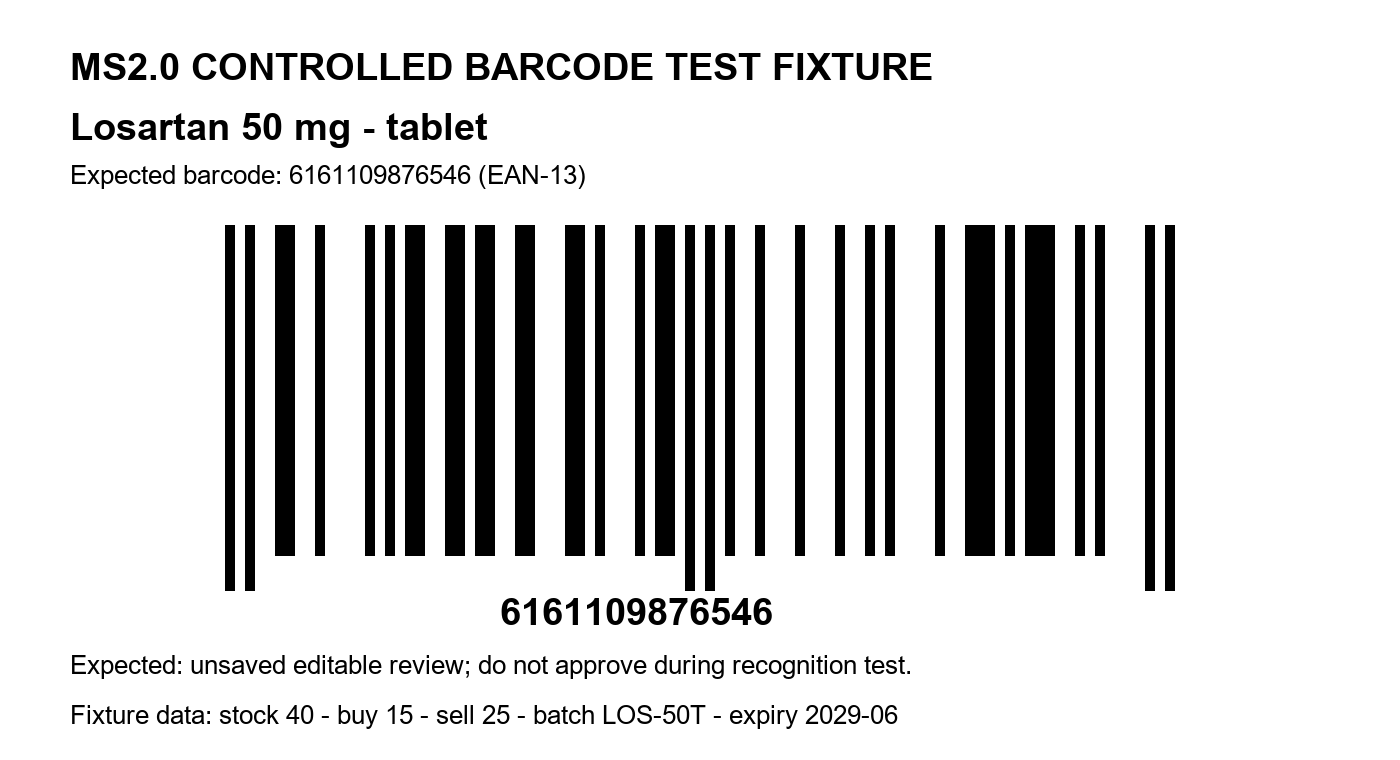
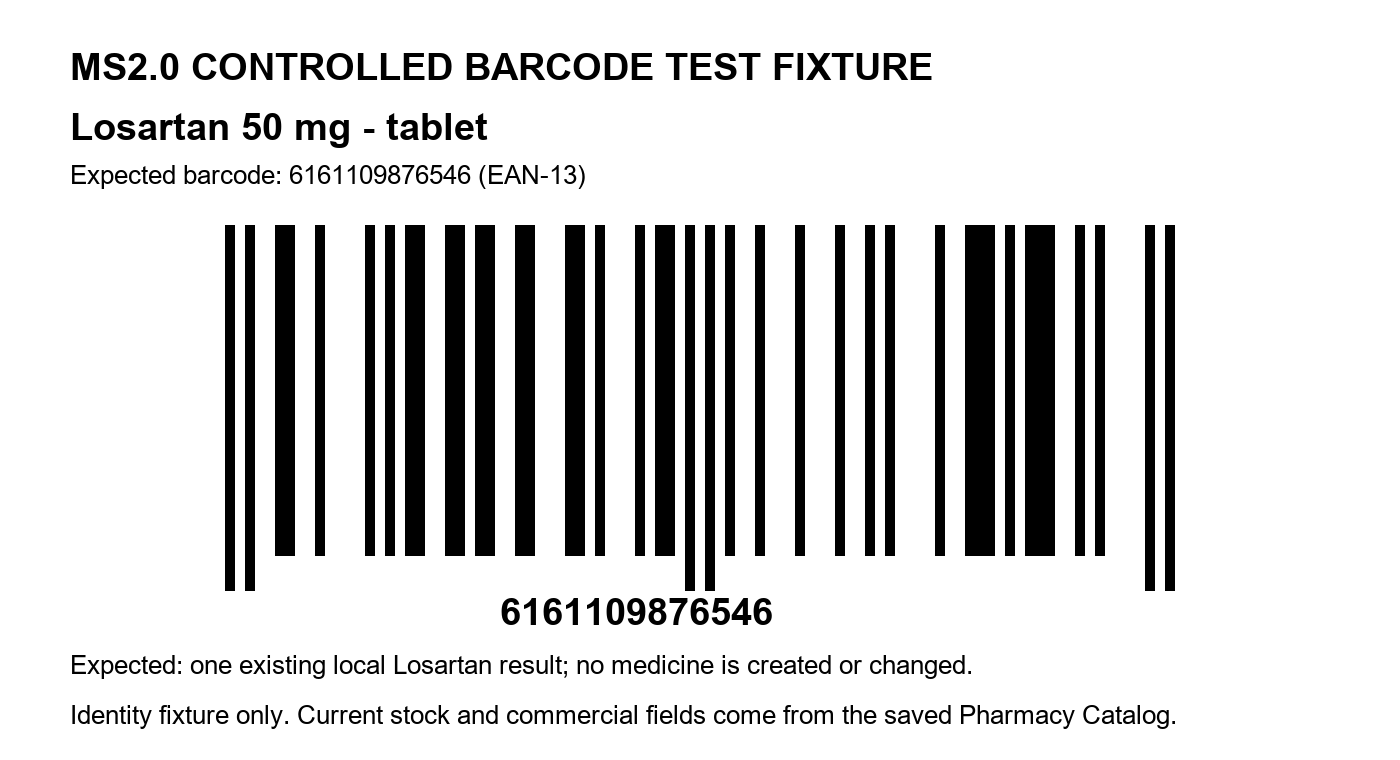
Fix same-context Print Finder capture

Changed region(s): [[0.0614, 0.8474, 0.8293, 0.9684]]

diff --git a/ms20-main-app/src/app.js b/ms20-main-app/src/app.js
@@ -96,8 +96,6 @@ let speechControl = { cardId: "", paused: false, segments: [], index: 0 };
 let speechRunId = 0;
 let activeReportRequest = null;
 let activeFinderWindow = null;
-const finderChannels = new Map();
-const activeFinderBridgeIds = new Set();
 const CARD_FONT_SCALE_STEP = 0.1;
 let activeStockFixScan = null;
 let pendingStockFixEvidenceSource = "photo";
@@ -169,12 +167,14 @@ const FIELD_LABELS = {
   items_text: "Medicine list"
 };
 let activeRecognition = null;
+let voiceCaptureAttempt = 0;
 let stockFixReading = null;
 let stockFixReadingSequence = 0;
 
 state.ui = { screen: "home", workspace: "operations" };
 state.voice = { starting: false, listening: false, status: "" };
 state.camera = { open: false, scanType: "medicine_photo", stream: null, status: "", lightAvailable: false, lightOn: false, capturedFile: null, capturedUrl: "", retryRequired: false };
+state.printPreview = null;
 state.shelfAcquisitionOpen = false;
 state.pendingScanType = "medicine_photo";
 state.stockFixPhotoCardId = "";
@@ -200,9 +200,16 @@ function render() {
     <main class="chat-app" style="--card-font-scale: ${state.cardFontScale};">
       ${state.ui.screen === "chat" ? chatScreenTemplate() : state.ui.screen === "payments" ? paymentQueueScreenTemplate() : chatHomeTemplate()}
       ${shelfAcquisitionTemplate()}
+      ${state.printPreview ? `<section class="print-preview-overlay" aria-label="Print preview"><iframe id="ms20PrintPreview" title="MS2.0 Pharmacy Inventory print preview"></iframe></section>` : ""}
       ${cameraOverlayTemplate()}
     </main>
   `;
+  const printFrame = root.querySelector("#ms20PrintPreview");
+  if (printFrame && state.printPreview) printFrame.srcdoc = buildPrintHtml(state.printPreview.model, {
+    bridgeId: state.printPreview.bridgeId,
+    initialQuery: state.printPreview.query,
+    initialMessage: state.printPreview.message
+  });
   bindEvents();
   hideReplitBadge();
   if (state.ui.screen === "payments") root.querySelector("#paymentQueueBody")?.scrollTo({ top: 0 });
@@ -1388,11 +1395,49 @@ function handleVoiceTranscript(text) {
   addCard(card);
 }
 
-function startVoiceCapture(onTranscript = null, onStatus = null) {
+async function startVoiceCapture(onTranscript = null, onStatus = null) {
   if (state.voice.starting || state.voice.listening) return;
+  const attempt = ++voiceCaptureAttempt;
   if (navigator.onLine === false) {
     state.voice.status = "Voice needs internet on this phone. You can type while offline.";
     onStatus?.("Voice needs internet on this phone. Connect, then tap Speak medicine again.");
+    render();
+    return;
+  }
+  if (!navigator.mediaDevices?.getUserMedia) {
+    state.voice.status = "Microphone capture is unavailable in this browser.";
+    onStatus?.("Microphone capture is unavailable in this browser. Try a current version of Chrome.");
+    render();
+    return;
+  }
+  state.voice.starting = true;
+  state.voice.listening = false;
+  state.voice.status = "Requesting microphone permission…";
+  onStatus?.("Requesting microphone permission…");
+  render();
+  const permissionTimer = window.setTimeout(() => {
+    if (attempt !== voiceCaptureAttempt || !state.voice.starting) return;
+    state.voice.status = "Choose Allow or Block in the browser microphone prompt.";
+    onStatus?.(state.voice.status);
+    render();
+  }, 12000);
+  try {
+    const permissionStream = await navigator.mediaDevices.getUserMedia({ audio: true, video: false });
+    clearTimeout(permissionTimer);
+    if (attempt !== voiceCaptureAttempt) {
+      permissionStream.getTracks().forEach((track) => track.stop());
+      return;
+    }
+    permissionStream.getTracks().forEach((track) => track.stop());
+  } catch (error) {
+    clearTimeout(permissionTimer);
+    if (attempt !== voiceCaptureAttempt) return;
+    state.voice.starting = false;
+    const denied = String(error?.name || "") === "NotAllowedError";
+    state.voice.status = denied
+      ? "Microphone access was denied. Allow it in browser settings, then tap Speak medicine again."
+      : "Microphone could not start. Check this phone's microphone and try again.";
+    onStatus?.(state.voice.status);
     render();
     return;
   }
@@ -1411,6 +1456,7 @@ function startVoiceCapture(onTranscript = null, onStatus = null) {
   let voiceError = false;
   let audioReady = false;
   let captureTimer = null;
+  let startupTimer = null;
   let latestTranscript = "";
   activeRecognition = recognition;
   state.voice.starting = true;
@@ -1420,11 +1466,13 @@ function startVoiceCapture(onTranscript = null, onStatus = null) {
   const markAudioReady = () => {
     if (audioReady) return;
     audioReady = true;
+    if (startupTimer) clearTimeout(startupTimer);
     state.voice.starting = false;
     state.voice.listening = true;
     const stockFixCard = state.cards.find((card) => card.type === "StockCorrectionCard");
     if (stockFixCard) state.voice.status = stockFixVoicePrompt(stockFixCard);
     else state.voice.status = "Speak now.";
+    onStatus?.("Listening… Say one saved medicine name.");
     render();
     captureTimer = setTimeout(() => {
       if (activeRecognition !== recognition) return;
@@ -1455,6 +1503,7 @@ function startVoiceCapture(onTranscript = null, onStatus = null) {
     state.voice.starting = false;
     state.voice.listening = false;
     state.voice.status = `Heard: “${finalTranscript}”.`;
+    onStatus?.("Processing spoken medicine locally…");
     activeRecognition = null;
     if (finalTranscript.trim()) {
       if (onTranscript) {
@@ -1480,6 +1529,7 @@ function startVoiceCapture(onTranscript = null, onStatus = null) {
   };
   recognition.onerror = (event) => {
     if (captureTimer) clearTimeout(captureTimer);
+    if (startupTimer) clearTimeout(startupTimer);
     voiceError = true;
     state.voice.starting = false;
     state.voice.listening = false;
@@ -1497,6 +1547,7 @@ function startVoiceCapture(onTranscript = null, onStatus = null) {
   };
   recognition.onend = () => {
     if (captureTimer) clearTimeout(captureTimer);
+    if (startupTimer) clearTimeout(startupTimer);
     activeRecognition = null;
     state.voice.starting = false;
     state.voice.listening = false;
@@ -1514,6 +1565,12 @@ function startVoiceCapture(onTranscript = null, onStatus = null) {
   };
   try {
     recognition.start();
+    startupTimer = window.setTimeout(() => {
+      if (activeRecognition !== recognition || audioReady) return;
+      state.voice.status = "Microphone did not start. Tap Speak medicine to retry.";
+      onStatus?.(state.voice.status);
+      try { recognition.abort(); } catch { /* already stopped */ }
+    }, 12000);
   } catch {
     activeRecognition = null;
     state.voice.starting = false;
@@ -1522,6 +1579,18 @@ function startVoiceCapture(onTranscript = null, onStatus = null) {
     onStatus?.("Voice could not start. Allow microphone access, check the internet, then try again.");
     render();
   }
+}
+
+function stopActiveVoiceCapture() {
+  voiceCaptureAttempt += 1;
+  const recognition = activeRecognition;
+  activeRecognition = null;
+  if (recognition) {
+    try { recognition.abort(); } catch { /* already stopped */ }
+  }
+  state.voice.starting = false;
+  state.voice.listening = false;
+  state.voice.status = "";
 }
 
 function buildCommandCard(text) {
@@ -1772,6 +1841,7 @@ async function openLightweightCamera(scanType = "medicine_photo") {
 }
 
 function closeLightweightCamera() {
+  const finderWasActive = Boolean(activeFinderWindow);
   closeCameraStream();
   clearCapturedCameraPhoto();
   state.camera.open = false;
@@ -1779,6 +1849,7 @@ function closeLightweightCamera() {
   state.camera.lightAvailable = false;
   state.camera.lightOn = false;
   render();
+  if (finderWasActive) postFinderResult("", "barcode_cancelled", "Scanner cancelled. Tap Scan barcode to retry.");
 }
 
 function clearCapturedCameraPhoto() {
@@ -1907,7 +1978,15 @@ async function readBarcodeCapture(file) {
   const recognized = existing || (sourceCandidate?.status === "matched" ? fixture : null);
   const review = recognized ? normalizeMedicineReviewRow(recognized) : {};
   if (activeFinderWindow) {
-    postFinderResult(review.name || barcode, barcode ? "barcode" : "barcode_not_read");
+    postFinderResult(
+      review.name || barcode,
+      barcode ? "barcode" : "barcode_not_read",
+      recognized
+        ? `Barcode matched ${review.name} in this Pharmacy Catalog.`
+        : barcode
+          ? "Barcode captured, but it has no match in this Pharmacy Catalog."
+          : "No barcode was read. Tap Scan barcode to retry."
+    );
     return;
   }
   addCard(createEditableCard({
@@ -3211,32 +3290,9 @@ function downloadInventoryExport(format, cardId = "") {
   };
   if (format === "print") {
     const bridgeId = globalThis.crypto?.randomUUID?.() || `finder-${Date.now()}-${Math.random().toString(36).slice(2)}`;
-    activeFinderBridgeIds.add(bridgeId);
-    const finderChannel = "BroadcastChannel" in window ? new BroadcastChannel(`ms20-finder-${bridgeId}`) : null;
-    if (finderChannel) {
-      finderChannels.set(bridgeId, finderChannel);
-      finderChannel.addEventListener("message", (event) => {
-        if (event.data?.type !== "ms20:finder-request" || event.data.bridgeId !== bridgeId) return;
-        handleFinderRequest(event.data, (payload) => finderChannel.postMessage({ ...payload, bridgeId }));
-      });
-      window.setTimeout(() => {
-        finderChannels.get(bridgeId)?.close();
-        finderChannels.delete(bridgeId);
-        activeFinderBridgeIds.delete(bridgeId);
-      }, 15 * 60 * 1000);
-    }
-    const printHtml = buildPrintHtml(model, { bridgeId });
-    const printUrl = URL.createObjectURL(new Blob([printHtml], { type: "text/html;charset=utf-8" }));
-    const printWindow = window.open(printUrl, "_blank");
-    if (!printWindow) {
-      URL.revokeObjectURL(printUrl);
-      finderChannel?.close();
-      finderChannels.delete(bridgeId);
-      activeFinderBridgeIds.delete(bridgeId);
-      return updateExportHubStatus(cardId, "Print view was blocked. Allow pop-ups for MS2.0, then try again.");
-    }
-    window.setTimeout(() => URL.revokeObjectURL(printUrl), 60000);
-    return updateExportHubStatus(cardId, `Print-ready inventory opened for ${model.rows.length} medicines.`);
+    state.printPreview = { model, bridgeId, query: "", message: "" };
+    updateExportHubStatus(cardId, `Print-ready inventory opened for ${model.rows.length} medicines.`);
+    return;
   }
   const selected = formats[format];
   if (!selected) return updateExportHubStatus(cardId, "That export format is not supported.");
@@ -4184,22 +4240,39 @@ function hideReplitBadge() {
   });
 }
 
-function postFinderResult(query, source) {
+function postFinderResult(query, source, message = "") {
   const target = activeFinderWindow;
   activeFinderWindow = null;
   if (!target || target.closed) return;
-  target.postMessage({ type: "ms20:finder-result", query: String(query || "").trim(), source }, window.location.origin);
+  target.postMessage({ type: "ms20:finder-result", query: String(query || "").trim(), source, message }, window.location.origin);
 }
 
 function handleFinderRequest(data, reply) {
   const send = (query = "", source = "", message = "") => reply({
     type: "ms20:finder-result", query: String(query || "").trim(), source, message
   });
+  if (data.action === "close") {
+    stopActiveVoiceCapture();
+    closeCameraStream();
+    state.printPreview = null;
+    render();
+    return;
+  }
   if (data.action === "voice") {
     send("", "shared_voice_capture", "Starting microphone in MS2.0…");
     window.focus();
     startVoiceCapture(
-      (transcript) => send(transcript, "shared_voice_capture", `Heard “${transcript}”.`),
+      (transcript) => {
+        const localMatch = matchMedicine(transcript, pharmacyBrain.catalog);
+        const matched = localMatch.status === "matched" ? localMatch.matches[0] : null;
+        send(
+          matched?.name || transcript,
+          "shared_voice_capture",
+          matched
+            ? `Matched ${matched.name} in this Pharmacy Catalog.`
+            : `Heard “${transcript}”, but no single local medicine matched. Tap Speak medicine to retry.`
+        );
+      },
       (message) => send("", "shared_voice_capture", message)
     );
     return;
@@ -4217,14 +4290,15 @@ function handleFinderRequest(data, reply) {
   }
 }
 
-window.addEventListener("message", (event) => {
-  if (event.data?.type !== "ms20:finder-request" || !event.source) return;
-  if (!activeFinderBridgeIds.has(event.data.bridgeId)) return;
-  if (event.origin !== window.location.origin && event.origin !== "null") return;
-  handleFinderRequest(event.data, (payload) => event.source.postMessage(
-    { ...payload, bridgeId: event.data.bridgeId || "" }, event.origin === "null" ? "*" : event.origin
-  ));
-});
+window.__ms20FinderRequest = (data) => {
+  if (!state.printPreview || data?.bridgeId !== state.printPreview.bridgeId) return;
+  handleFinderRequest(data, (payload) => {
+    if (!state.printPreview) return;
+    if (payload.query) state.printPreview.query = payload.query;
+    if (payload.message !== undefined) state.printPreview.message = payload.message;
+    if (!state.camera.open) render();
+  });
+};
 
 window.addEventListener("online", () => { syncPendingStockCorrections(); render(); });
 window.addEventListener("offline", render);

diff --git a/ms20-main-app/src/services/documentGenerator.js b/ms20-main-app/src/services/documentGenerator.js
@@ -134,7 +134,7 @@ export function buildInventoryPdf(model) {
   return new TextEncoder().encode(pdf);
 }
 
-export function buildPrintHtml(model, { bridgeId = "" } = {}) {
+export function buildPrintHtml(model, { bridgeId = "", initialQuery = "", initialMessage = "" } = {}) {
   const cells = (row) => COLUMNS.map(([key, label]) => `<td data-label="${xml(label)}">${xml(row[key] === "" ? "—" : row[key])}</td>`).join("");
   const detailRows = (row) => COLUMNS.map(([key, label]) => `<div class="field"><strong>${xml(label)}</strong><span>${xml(row[key] === "" ? "—" : row[key])}</span></div>`).join("");
   const mobileCards = model.rows.map((row, index) => `<details class="medicine-card" data-finder-id="${xml(row.finderId)}"${index === 0 ? " open" : ""}><summary><span><strong>${xml(row.medicine || "Unnamed medicine")}</strong><small>${xml([row.strength, row.form, row.unit].filter(Boolean).join(" · ") || "Details not recorded")}</small></span><span class="quick-facts"><b>Stock ${xml(row.stock === "" ? "—" : row.stock)}</b><small>KES ${xml(row.sellingPrice === "" ? "—" : row.sellingPrice)}</small></span></summary><div class="details-grid">${detailRows(row)}</div></details>`).join("");
@@ -142,7 +142,7 @@ export function buildPrintHtml(model, { bridgeId = "" } = {}) {
   :root{font-family:Arial,sans-serif;color:#19332f;background:#eef5f3;color-scheme:light}*{box-sizing:border-box}body{margin:0}.page{max-width:1200px;margin:0 auto;padding:20px}.toolbar{position:sticky;top:0;z-index:2;display:flex;gap:10px;align-items:center;padding:12px 0;background:#eef5f3}.action{min-height:46px;padding:10px 18px;border:1px solid #086c5c;border-radius:24px;background:#086c5c;color:#fff;font:700 16px Arial;cursor:pointer}.action.secondary{background:#fff;color:#086c5c}.eyebrow{margin:8px 0 4px;color:#536b66;font-size:14px;font-weight:700}h1{margin:0 0 8px;color:#086c5c;font-size:30px}.meta{margin:0 0 10px;font-size:16px;line-height:1.5}.summary{margin:0 0 18px;padding:12px 14px;border-left:5px solid #086c5c;background:#dff1ec;font-size:16px}.mobile-review{display:none}.table-wrap{overflow-x:auto}table{width:100%;border-collapse:collapse;background:#fff;font-size:12px}th{background:#086c5c;color:#fff;text-align:left}th,td{padding:7px;border:1px solid #c9d8d4;vertical-align:top;overflow-wrap:anywhere}tbody tr:nth-child(even){background:#f1f7f5}footer{margin:16px 0;color:#536b66;line-height:1.5}
   @media(max-width:720px){.page{padding:14px}.toolbar{justify-content:stretch}.action{flex:1;padding:10px 12px}h1{font-size:26px}.meta,.summary{font-size:15px}.table-wrap{display:none}.mobile-review{display:block}.finder-actions{display:grid;grid-template-columns:1fr 1fr;gap:10px;margin-bottom:10px}.finder-action{min-height:46px;border:1px solid #086c5c;border-radius:23px;background:#fff;color:#086c5c;font:700 15px Arial}.search-label{display:block;margin:0 0 8px;font-weight:700}.search{width:100%;min-height:48px;margin-bottom:10px;padding:10px 14px;border:1px solid #7e9b95;border-radius:12px;background:#fff;color:#19332f;font:16px Arial}.filter{width:100%;min-height:46px;margin-bottom:10px;padding:8px 12px;border:1px solid #7e9b95;border-radius:12px;background:#fff;color:#19332f;font:15px Arial}.review-help{margin:0 0 12px;color:#536b66;font-size:14px}.medicine-list{display:grid;gap:10px}.medicine-card{border:1px solid #b7cdc8;border-radius:14px;background:#fff;box-shadow:0 2px 8px rgba(25,51,47,.06);overflow:hidden}.medicine-card[hidden]{display:none}.medicine-card summary{display:grid;grid-template-columns:minmax(0,1fr) auto;gap:12px;align-items:center;min-height:68px;padding:12px 14px;cursor:pointer}.medicine-card summary>span:first-child{display:grid;gap:4px}.medicine-card summary strong{font-size:17px}.medicine-card small{color:#536b66;font-size:13px}.quick-facts{display:grid;gap:4px;text-align:right}.quick-facts b{color:#086c5c;font-size:14px}.details-grid{border-top:1px solid #d6e3df}.field{display:grid;grid-template-columns:minmax(112px,42%) 1fr;gap:10px;min-height:42px;padding:10px 12px;border-bottom:1px solid #e1ebe8;font-size:15px;line-height:1.35}.field:last-child{border-bottom:0}.field strong{color:#536b66}footer{font-size:14px}}
   @page{size:A4 landscape;margin:10mm}@media print{:root{background:#fff}.page{max-width:none;margin:0;padding:0}.toolbar,.eyebrow,.summary,.mobile-review{display:none}.table-wrap{display:block;overflow:visible}h1{font-size:20px}.meta{font-size:10px;margin-bottom:12px}table{display:table;font-size:8px}thead{display:table-header-group;position:static;width:auto;height:auto;overflow:visible;clip:auto}tbody{display:table-row-group}tbody tr{display:table-row;box-shadow:none}th,td{display:table-cell;min-height:0;padding:4px;border:1px solid #c9d8d4;line-height:1.2}td::before{display:none}footer{font-size:8px;margin-top:8px}}
-  </style></head><body><main class="page"><div class="toolbar"><button class="action" type="button" onclick="window.print()">Print inventory</button><button class="action secondary" type="button" onclick="window.close()">Close view</button></div><p class="eyebrow">Review before printing</p><h1>${xml(model.title)}</h1><p class="meta"><strong>${xml(model.pharmacyName)}</strong><br>${xml(model.branch)} · ${xml(model.location)}<br>Generated ${xml(model.generatedKenya)} Africa/Nairobi</p><p class="summary">${model.rows.length} canonical medicine records · Pharmacy-isolated · Generated locally with zero AI formatting</p><section class="mobile-review" aria-label="Mobile inventory review"><label class="search-label" for="medicine-search">Fast medicine finder</label><div class="finder-actions"><button class="finder-action" id="finder-scan" type="button">Scan barcode</button><button class="finder-action" id="finder-voice" type="button">Speak medicine</button></div><p class="review-help" id="finder-status" aria-live="polite"></p><select class="filter" id="medicine-filter" aria-label="Quick medicine filter"><option value="all">All medicines</option><option value="lowStock">Low stock</option><option value="outOfStock">Out of stock</option><option value="expiringSoon">Expiring soon</option><option value="az">A–Z</option></select><label class="search-label" for="medicine-search">Type only if needed</label><input class="search" id="medicine-search" type="search" placeholder="Name, alias, strength, form, unit, barcode, supplier, shelf or batch" autocomplete="off"><p class="review-help" id="review-count">${model.rows.length} of ${model.rows.length} medicines shown · Tap a medicine to view every field.</p><div class="medicine-list">${mobileCards}</div></section><div class="table-wrap"><table><thead><tr>${COLUMNS.map(([, label]) => `<th>${xml(label)}</th>`).join("")}</tr></thead><tbody>${model.rows.map((row) => `<tr>${cells(row)}</tr>`).join("")}</tbody></table></div><footer>${model.rows.length} canonical medicine records. Generated locally by MS2.0 with no AI formatting.</footer></main><script>${medicineFinderClientScript(model.finderIndex, { bridgeId })}</script></body></html>`;
+  </style></head><body><main class="page"><div class="toolbar"><button class="action" type="button" onclick="window.print()">Print inventory</button><button class="action secondary" type="button" onclick="window.close()">Close view</button></div><p class="eyebrow">Review before printing</p><h1>${xml(model.title)}</h1><p class="meta"><strong>${xml(model.pharmacyName)}</strong><br>${xml(model.branch)} · ${xml(model.location)}<br>Generated ${xml(model.generatedKenya)} Africa/Nairobi</p><p class="summary">${model.rows.length} canonical medicine records · Pharmacy-isolated · Generated locally with zero AI formatting</p><section class="mobile-review" aria-label="Mobile inventory review"><label class="search-label" for="medicine-search">Fast medicine finder</label><div class="finder-actions"><button class="finder-action" id="finder-scan" type="button">Scan barcode</button><button class="finder-action" id="finder-voice" type="button">Speak medicine</button></div><p class="review-help" id="finder-status" aria-live="polite"></p><select class="filter" id="medicine-filter" aria-label="Quick medicine filter"><option value="all">All medicines</option><option value="lowStock">Low stock</option><option value="outOfStock">Out of stock</option><option value="expiringSoon">Expiring soon</option><option value="az">A–Z</option></select><label class="search-label" for="medicine-search">Type only if needed</label><input class="search" id="medicine-search" type="search" placeholder="Name, alias, strength, form, unit, barcode, supplier, shelf or batch" autocomplete="off"><p class="review-help" id="review-count">${model.rows.length} of ${model.rows.length} medicines shown · Tap a medicine to view every field.</p><div class="medicine-list">${mobileCards}</div></section><div class="table-wrap"><table><thead><tr>${COLUMNS.map(([, label]) => `<th>${xml(label)}</th>`).join("")}</tr></thead><tbody>${model.rows.map((row) => `<tr>${cells(row)}</tr>`).join("")}</tbody></table></div><footer>${model.rows.length} canonical medicine records. Generated locally by MS2.0 with no AI formatting.</footer></main><script>${medicineFinderClientScript(model.finderIndex, { bridgeId, initialQuery, initialMessage })}</script></body></html>`;
 }
 
 export function exportFilename(model, extension) {

diff --git a/ms20-main-app/src/services/medicineFinder.js b/ms20-main-app/src/services/medicineFinder.js
@@ -46,14 +46,16 @@ export function searchMedicineFinder(index = [], query = "", { filter = "all", l
     .map(({ entry }) => entry);
 }
 
-export function medicineFinderClientScript(index, { bridgeId = "" } = {}) {
+export function medicineFinderClientScript(index, { bridgeId = "", initialQuery = "", initialMessage = "" } = {}) {
   const data = index.map((entry) => ({
     id: entry.id, name: entry.name, canonical: entry.fields.canonical, aliases: entry.fields.aliases,
     search: entry.searchable, flags: entry.flags
   }));
   const json = JSON.stringify(data).replace(/</g, "\\u003c");
   const bridge = JSON.stringify(String(bridgeId || ""));
-  return `(()=>{const index=${json},bridgeId=${bridge},input=document.querySelector("#medicine-search"),count=document.querySelector("#review-count"),status=document.querySelector("#finder-status"),filter=document.querySelector("#medicine-filter"),cards=new Map([...document.querySelectorAll(".medicine-card")].map(card=>[card.dataset.finderId,card]));const norm=value=>String(value||"").normalize("NFKD").replace(/[\\u0300-\\u036f]/g,"").toLowerCase().replace(/[^a-z0-9%]+/g," ").trim();const distance=(a,b)=>{const row=Array.from({length:b.length+1},(_,i)=>i);for(let i=1;i<=a.length;i++){let previous=row[0];row[0]=i;for(let j=1;j<=b.length;j++){const saved=row[j];row[j]=Math.min(row[j]+1,row[j-1]+1,previous+(a[i-1]===b[j-1]?0:1));previous=saved}}return row[b.length]};const score=(entry,wanted)=>{if(!wanted)return 1;if(entry.canonical===wanted)return 100;if(entry.canonical.startsWith(wanted))return 90;if(entry.aliases.includes(wanted))return 85;if(entry.search.includes(wanted))return 75;const terms=entry.search.split(" "),queries=wanted.split(" ");if(queries.some(query=>/\\d/.test(query)&&!terms.includes(query)))return 0;return queries.every(query=>terms.some(term=>query.length>=4&&distance(query,term)<=Math.max(1,Math.ceil(query.length*.2))))?60:0};const apply=()=>{const wanted=norm(input.value),selected=filter.value;const scored=index.filter(entry=>selected==="all"||selected==="az"||entry.flags[selected]).map(entry=>({entry,value:score(entry,wanted)})).filter(result=>wanted?result.value>=54:result.value>0).sort((a,b)=>selected==="az"?a.entry.name.localeCompare(b.entry.name):b.value-a.value||a.entry.name.localeCompare(b.entry.name));const visible=new Set(scored.map(result=>result.entry.id));cards.forEach((card,id)=>card.hidden=!visible.has(id));count.textContent=scored.length+" of "+index.length+" medicines shown · Tap a medicine to view every field."};const receive=data=>{if(data?.type!=="ms20:finder-result"||data.bridgeId!==bridgeId)return;if(data.message)status.textContent=data.message;if(data.query){input.value=data.query;filter.value="all";apply();input.scrollIntoView({behavior:"smooth",block:"center"})}};let channel=null;if(bridgeId&&"BroadcastChannel" in window){channel=new BroadcastChannel("ms20-finder-"+bridgeId);channel.addEventListener("message",event=>receive(event.data))}const request=action=>{status.textContent=action==="barcode"?"Opening the shared barcode scanner…":"Starting shared voice capture…";const message={type:"ms20:finder-request",action,bridgeId};if(channel)channel.postMessage(message);else if(window.opener)window.opener.postMessage(message,"*");else status.textContent="Return to MS2.0 and reopen Print. The finder connection is unavailable."};input.addEventListener("input",()=>{status.textContent="";apply()});input.addEventListener("search",()=>{if(!input.value){filter.value="all";status.textContent="";apply()}});filter.addEventListener("change",apply);document.querySelector("#finder-scan").addEventListener("click",()=>request("barcode"));document.querySelector("#finder-voice").addEventListener("click",()=>request("voice"));window.addEventListener("message",event=>{if(event.source===window.opener)receive(event.data)});apply()})()`;
+  const query = JSON.stringify(String(initialQuery || ""));
+  const message = JSON.stringify(String(initialMessage || ""));
+  return `(()=>{const index=${json},bridgeId=${bridge},input=document.querySelector("#medicine-search"),count=document.querySelector("#review-count"),status=document.querySelector("#finder-status"),filter=document.querySelector("#medicine-filter"),cards=new Map([...document.querySelectorAll(".medicine-card")].map(card=>[card.dataset.finderId,card]));input.value=${query};status.textContent=${message};const norm=value=>String(value||"").normalize("NFKD").replace(/[\\u0300-\\u036f]/g,"").toLowerCase().replace(/[^a-z0-9%]+/g," ").trim();const distance=(a,b)=>{const row=Array.from({length:b.length+1},(_,i)=>i);for(let i=1;i<=a.length;i++){let previous=row[0];row[0]=i;for(let j=1;j<=b.length;j++){const saved=row[j];row[j]=Math.min(row[j]+1,row[j-1]+1,previous+(a[i-1]===b[j-1]?0:1));previous=saved}}return row[b.length]};const score=(entry,wanted)=>{if(!wanted)return 1;if(entry.canonical===wanted)return 100;if(entry.canonical.startsWith(wanted))return 90;if(entry.aliases.includes(wanted))return 85;if(entry.search.includes(wanted))return 75;const terms=entry.search.split(" "),queries=wanted.split(" ");if(queries.some(query=>/\\d/.test(query)&&!terms.includes(query)))return 0;return queries.every(query=>terms.some(term=>query.length>=4&&distance(query,term)<=Math.max(1,Math.ceil(query.length*.2))))?60:0};const apply=()=>{const wanted=norm(input.value),selected=filter.value;const scored=index.filter(entry=>selected==="all"||selected==="az"||entry.flags[selected]).map(entry=>({entry,value:score(entry,wanted)})).filter(result=>wanted?result.value>=54:result.value>0).sort((a,b)=>selected==="az"?a.entry.name.localeCompare(b.entry.name):b.value-a.value||a.entry.name.localeCompare(b.entry.name));const visible=new Set(scored.map(result=>result.entry.id));cards.forEach((card,id)=>card.hidden=!visible.has(id));count.textContent=scored.length+" of "+index.length+" medicines shown · Tap a medicine to view every field."};const receive=data=>{if(data?.type!=="ms20:finder-result"||data.bridgeId!==bridgeId)return;if(data.message!==undefined)status.textContent=data.message;if(data.query){input.value=data.query;filter.value="all";apply();input.scrollIntoView({behavior:"smooth",block:"center"})}};let channel=null;if(bridgeId&&"BroadcastChannel" in window){channel=new BroadcastChannel("ms20-finder-"+bridgeId);channel.addEventListener("message",event=>receive(event.data))}const request=action=>{status.textContent=action==="barcode"?"Requesting camera…":"Requesting microphone…";const requestData={type:"ms20:finder-request",action,bridgeId};if(window.parent!==window&&typeof window.parent.__ms20FinderRequest==="function")window.parent.__ms20FinderRequest(requestData);else if(channel)channel.postMessage(requestData);else if(window.opener)window.opener.postMessage(requestData,"*");else status.textContent="Return to MS2.0 and reopen Print. The finder connection is unavailable."};input.addEventListener("input",()=>{status.textContent="";apply()});input.addEventListener("search",()=>{if(!input.value){filter.value="all";status.textContent="";apply()}});filter.addEventListener("change",apply);document.querySelector("#finder-scan").addEventListener("click",()=>request("barcode"));document.querySelector("#finder-voice").addEventListener("click",()=>request("voice"));document.querySelector(".action.secondary").addEventListener("click",event=>{if(window.parent!==window&&typeof window.parent.__ms20FinderRequest==="function"){event.preventDefault();window.parent.__ms20FinderRequest({type:"ms20:finder-request",action:"close",bridgeId})}});window.addEventListener("message",event=>{if(event.source===window.opener)receive(event.data)});apply()})()`;
 }
 
 function finderScore(entry, wanted) {

diff --git a/ms20-main-app/src/styles.css b/ms20-main-app/src/styles.css
@@ -1400,6 +1400,20 @@ pre {
   display: none;
 }
 
+.print-preview-overlay {
+  position: fixed;
+  z-index: 90;
+  inset: 0;
+  background: #eef5f3;
+}
+
+.print-preview-overlay iframe {
+  width: 100%;
+  height: 100%;
+  border: 0;
+  background: #eef5f3;
+}
+
 .camera-overlay {
   position: fixed;
   z-index: 100;

diff --git a/ms20-main-app/tools/build-barcode-fixture.py b/ms20-main-app/tools/build-barcode-fixture.py
@@ -29,6 +29,6 @@ for index, bit in enumerate(bits):
         guard = index < 3 or 45 <= index < 50 or index >= 92
         draw.rectangle((start_x + index * module, top, start_x + (index + 1) * module - 1, top + bar_height + (35 if guard else 0)), fill="black")
 draw.text((500, 590), value, fill="black", font=bold)
-draw.text((70, 650), "Expected: unsaved editable review; do not approve during recognition test.", fill="black", font=regular)
-draw.text((70, 700), f'Fixture data: stock {manifest["stock"]} - buy {manifest["cost_price"]} - sell {manifest["selling_price"]} - batch {manifest["batch"]} - expiry {manifest["expiry"]}', fill="black", font=regular)
+draw.text((70, 650), "Expected: one existing local Losartan result; no medicine is created or changed.", fill="black", font=regular)
+draw.text((70, 700), "Identity fixture only. Current stock and commercial fields come from the saved Pharmacy Catalog.", fill="black", font=regular)
 image.save(manifest_path.with_suffix(".png"), optimize=True)

diff --git a/docs/engineering-memory/current-live-validation-state.md b/docs/engineering-memory/current-live-validation-state.md
@@ -394,6 +394,8 @@ Permanent typing-last rule: applicable workflows must prefer one-tap determinist
 
 Live Print Finder evidence after `c637d52` blocks the checkpoint. The preview started at `0 of 35` with empty input and `All medicines`, while typed `Par` still resolved exactly one Paracetamol; Scan barcode and Speak medicine appeared inert. Root analysis found two shared adapter defects: the embedded client gave empty input score `1` but applied the non-empty minimum score `54`, and the Blob preview depended only on `window.opener`, which mobile Chrome may sever or make unsuitable for cross-tab capture. The repair gives empty/all/clear their own positive-score boundary, adds a per-preview authenticated `BroadcastChannel` with guarded opener fallback, routes requests into the existing `openLightweightCamera("barcode")` and `startVoiceCapture` roots, and returns progress, transcript and actionable permission/unavailable states to the preview. No catalog write, duplicate, global lookup, network formatter or LLM path was added. Focused local verification passes; live Print Finder remains unpassed and must be repeated before Print Inventory.
 
+Follow-up live evidence after `db1709c` passes the count/reset repair at `35 of 35` and preserves readable summaries plus complete Paracetamol fields, but capture remains blocked. Voice first reported a denial before a native prompt; after manual permission it stayed at `Starting microphone in MS2.0…`. Barcode stayed at `Opening the shared scanner in MS2.0…`. The deeper root is browser user activation: cross-tab messaging can deliver data but cannot transfer the direct tap required by camera/microphone permission and capture startup. Print review is therefore hosted as a same-context full-screen `srcdoc` preview inside MS2.0. Its tap synchronously enters the existing shared `getUserMedia`/Web Speech and camera/BarcodeDetector lifecycles; the camera overlay remains above the preview; close/cancel stops active capture. Voice now requests real microphone permission before recognition, reports requesting/listening/processing/matched/no-match/denied/unavailable/retry states, and bounds permission/start/capture waits. Barcode returns matched/no-local-match/not-read/cancelled states. The existing canonical Losartan record and its valid EAN-13 `6161109876546` are paired with the deterministic tracked fixture at `/main-app/fixtures/barcode-losartan-50mg.png`; no catalog mutation or duplicate is needed. Local browser interaction confirms the same-context mobile preview and direct native permission request. The live checkpoint remains open.
+
 Three approved dependency-ordered improvements are now permanent requirements. First, at the later restocking/supplier/inventory-intelligence stage after Export Hub format integrity, implement a maximum-three-step deterministic Supplier Order Generator: ask by voice/text, review one editable card, Send Order. Saved reorder level is the primary trigger; suggestions remain labeled until accepted; missing levels say `Reorder level not set`; pack quantities use only confirmed conversions; every line explains stock, reorder level and suggested/requested quantity; supplier grouping, unique references, duplicate protection, practical WhatsApp/email/PDF/print/share routes, auditable reorder-level history and truthful sourced Draft/Sent/Confirmed/Partial/Rejected/Dispatched/Delivered/Delayed/Cancelled states are required. Supplier viewed, expected delivery and delay claims may appear only from verifiable authoritative sources; otherwise show Unknown/Awaiting confirmation. The ordered live sequence must cover create/accept/edit/skip reorder levels, missing-level safety, low-stock/owner/supplier orders, conversions, editable review, grouping, supported sending, receipt/confirmation/partial availability/delivery/delay/dispatch/delivery, duplicate safety, history, export/print, three-step usability, isolation and zero unjustified LLM use.
 
 Second, at the later active-sales/shared-card/cross-input stage, implement exact medicine form/unit, unit-specific price, pack conversion and stock deduction at the shared sale-processing root. The first rush-hour card must visibly prioritize medicine, form/unit, quantity, exact selling price, payment and Confirm/Correct/Cancel with a persistent concise summary; secondary traceability stays later. Ambiguous units/prices require one simple choice, missing conversions/prices remain Unknown/confirmation required, and dangerous unit-price-strength mismatches are blocked. Exact values must survive typed/voice/barcode/camera/photo/file/catalog/quick-add routes and ledger, stock, reports, history, correction, undo, offline and exports. Pack photos must locally extract every visibly authoritative brand/generic/strength/form/unit/pack/quantity/barcode/batch/expiry/manufacturer/distributor/registration/printed-price field, label image/catalog/suggested/confirmed/unknown provenance, and update rather than duplicate. Its ordered live sequence is the focused 30-case unit/price/conversion/photo/shared-root matrix recorded in the Live App Test Plan; passed unrelated acquisition tests stay closed.

diff --git a/ms20-main-app/CURRENT_ARCHITECTURE_SNAPSHOT.md b/ms20-main-app/CURRENT_ARCHITECTURE_SNAPSHOT.md
@@ -327,6 +327,7 @@ Planned at their proper test stages:
 - Evidence after `d37cd31` proves the readable first-to-last mobile view, but 35 always-expanded 12-field cards remain inefficient. Mobile review now uses a compact, locally searchable disclosure list over the same immutable model: essential medicine/unit/stock/price facts are visible, full canonical fields expand on demand, and no network or AI path exists. Print CSS explicitly suppresses the mobile index and restores every row and column in the landscape table, preventing screen optimizations from reducing paper truth.
 - Evidence after `6600418` closes compact-list and typed-fallback behavior but not the actual Print action. Medicine finding is now a shared pharmacy-scoped indexed service used by Catalog and Print. The Print adapter adds a compact typing-last control: same-origin bridges reuse the existing scanner and voice capture, truthful canonical filters cover low/out/expiry/A-Z, and typed local ranking covers identity plus operational fields and safe misspellings. Screen results never mutate or subset the print table. The implementation adds no dependency or external asset and is registered in the machine-readable provenance registry.
 - Live evidence after `c637d52` exposed two Print adapter defects without invalidating the shared index: empty/all input was incorrectly passed through the non-empty score threshold, producing `0 of 35`, and mobile Blob previews could lose the sole `window.opener` capture bridge, leaving Scan and Speak inert. Print now uses the correct empty-query result boundary and a short-lived per-preview authenticated browser channel with guarded opener fallback. That adapter delegates to the existing shared camera/barcode and speech-recognition lifecycles and sends progress or actionable permission/unavailable messages back to the preview. Catalog data remains pharmacy-scoped and read-only; matching stays local and deterministic; paper output remains complete. The Print Finder checkpoint remains open for live confirmation.
+- Evidence after `db1709c` proved that cross-tab delivery alone is insufficient: mobile capture requires the original direct user activation in the same browser context. Print review is now a full-screen same-context `srcdoc` surface inside Main App, with the shared camera overlay above it and the unchanged deterministic print document inside it. Direct taps synchronously enter the shared permission/capture roots. Microphone permission uses `getUserMedia` before Web Speech, both permission and recognition startup are bounded, all success/error/cancel paths clean up, and canonical local matching returns to the preview. Barcode uses the same existing camera/BarcodeDetector lifecycle and returns catalog match/no-match/not-read/cancel states. The tracked Losartan EAN-13 fixture supplies a controlled existing-catalog test without mutation or duplication. Print Finder still requires live confirmation.
 - The future Supplier Order Generator belongs after Export Hub integrity in the supplier/restocking domain. It must reuse canonical inventory/export roots, saved reorder levels, confirmed conversions and a sourced status model; maximum owner path is request -> editable card -> Send Order. Missing facts remain Unknown/Awaiting confirmation and routine calculations are zero-LLM.
 - Exact form/unit sales belong at the shared sale-card and execution roots after catalog pack/unit data is authoritative. Unit-specific price and conversion must remain visible on the first rush-hour card and propagate unchanged through every input route, stock/ledger/report/history/correction/undo/offline/export consumer. Pack-photo evidence preserves field-level provenance and never invents or duplicates.
 - Export production readiness now requires one shared provenance/compliance boundary: original or rights-verified assets, a machine-readable licensing registry with fail-closed production checks, minimum-necessary pharmacy-isolated data, access/retention/deletion/audit/redaction controls, controlled document identity/source labeling and no false endorsement. Kenya-specific legal, IP, privacy, pharmacy, payment and security conclusions remain qualified professional pre-launch reviews, not code claims.

diff --git a/ms20-main-app/LIVE_APP_TEST_PLAN.md b/ms20-main-app/LIVE_APP_TEST_PLAN.md
@@ -651,6 +651,8 @@ Next live test only: open Export Hub -> Print; confirm summaries and first expan
 
 Live evidence after `c637d52` fails this checkpoint: the empty `All medicines` state displayed `0 of 35`, and Scan barcode and Speak medicine did not open their shared capture flows; typed `Par` still found exactly one Paracetamol. The repair separates empty-query scoring from non-empty match thresholds and replaces the fragile Blob-preview-only opener dependency with an authenticated per-preview browser channel plus guarded fallback. Requests still enter the proven shared barcode camera and voice capture roots, results still match only the active Pharmacy Catalog, and clear/reset restores the complete screen model. Permission and unavailable states now return actionable preview guidance. Local Export Hub, catalog, barcode, voice, consistency, architecture, duplicate-safety, pharmacy-isolation and zero-AI checks pass. Do not mark live validation passed. Repeat the same Print Finder test only after deployment; do not tap Print inventory.
 
+Follow-up evidence after `db1709c` passes `35 of 35`, `All medicines`, readable list and canonical Paracetamol inspection. Voice incorrectly required manual settings before any prompt and then hung at startup; scanner hung before permission/UI. Root repair removes cross-tab user-activation loss by hosting Print review inside the same Main App context. First Speak tap now invokes real microphone `getUserMedia`, then the existing Web Speech root with bounded requesting/listening/processing/result/error/cleanup states. First Scan tap invokes the existing camera root directly, keeps its real overlay visible above Print, and returns captured local matches or bounded denial/unavailable/no-match/cancel states. Use the existing canonical Losartan record with barcode `6161109876546`; display `/main-app/fixtures/barcode-losartan-50mg.png` on another screen. No medicine is created or edited. Repeat this one checkpoint only and do not tap Print inventory.
+
 ## Ordered approved improvement 1 - Supplier ordering and truthful fulfilment
 
 Dependency position: after Export Hub format integrity, inside the restocking, supplier, order-list and inventory-intelligence stage. Document/send routes reuse the verified Export Hub root. Implement one shared deterministic Supplier Order Generator with a maximum-three-step owner path: request by voice/text, edit one order card, Send Order. It must support saved reorder-level triggers, owner-requested lines, supplier/category/manual selection and low-stock suggestions using only canonical stock, confirmed reorder levels, pack conversions, supplier assignment, deterministic velocity/lead time and owner preferences. Reorder setup is show labeled suggestion -> accept/edit/skip -> save; missing levels remain `Reorder level not set` with quick setup and no invented quantity. Preserve below/at/above/missing states and auditable level changes.
